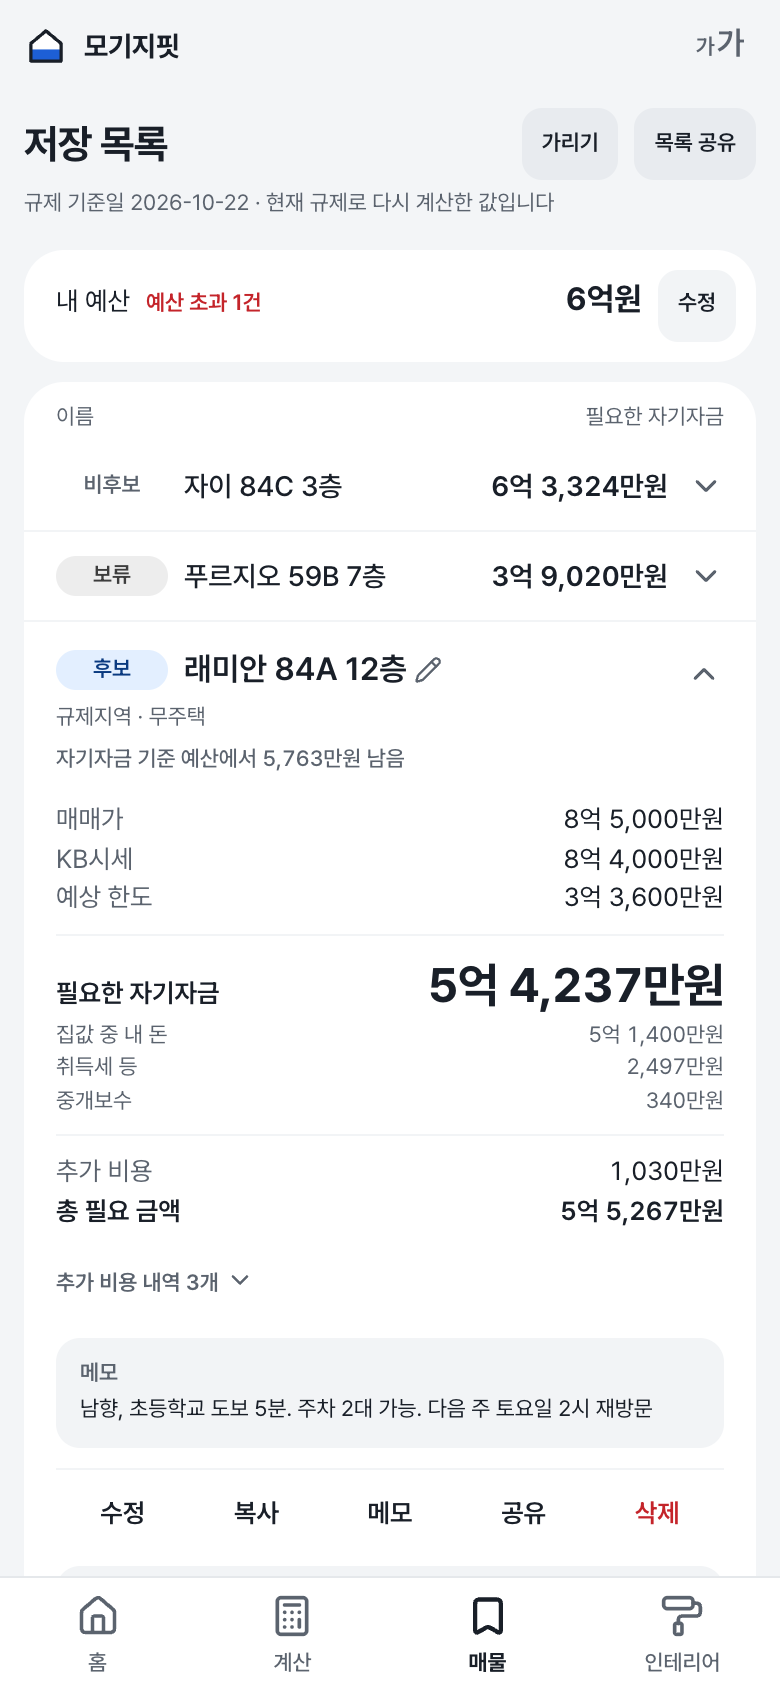
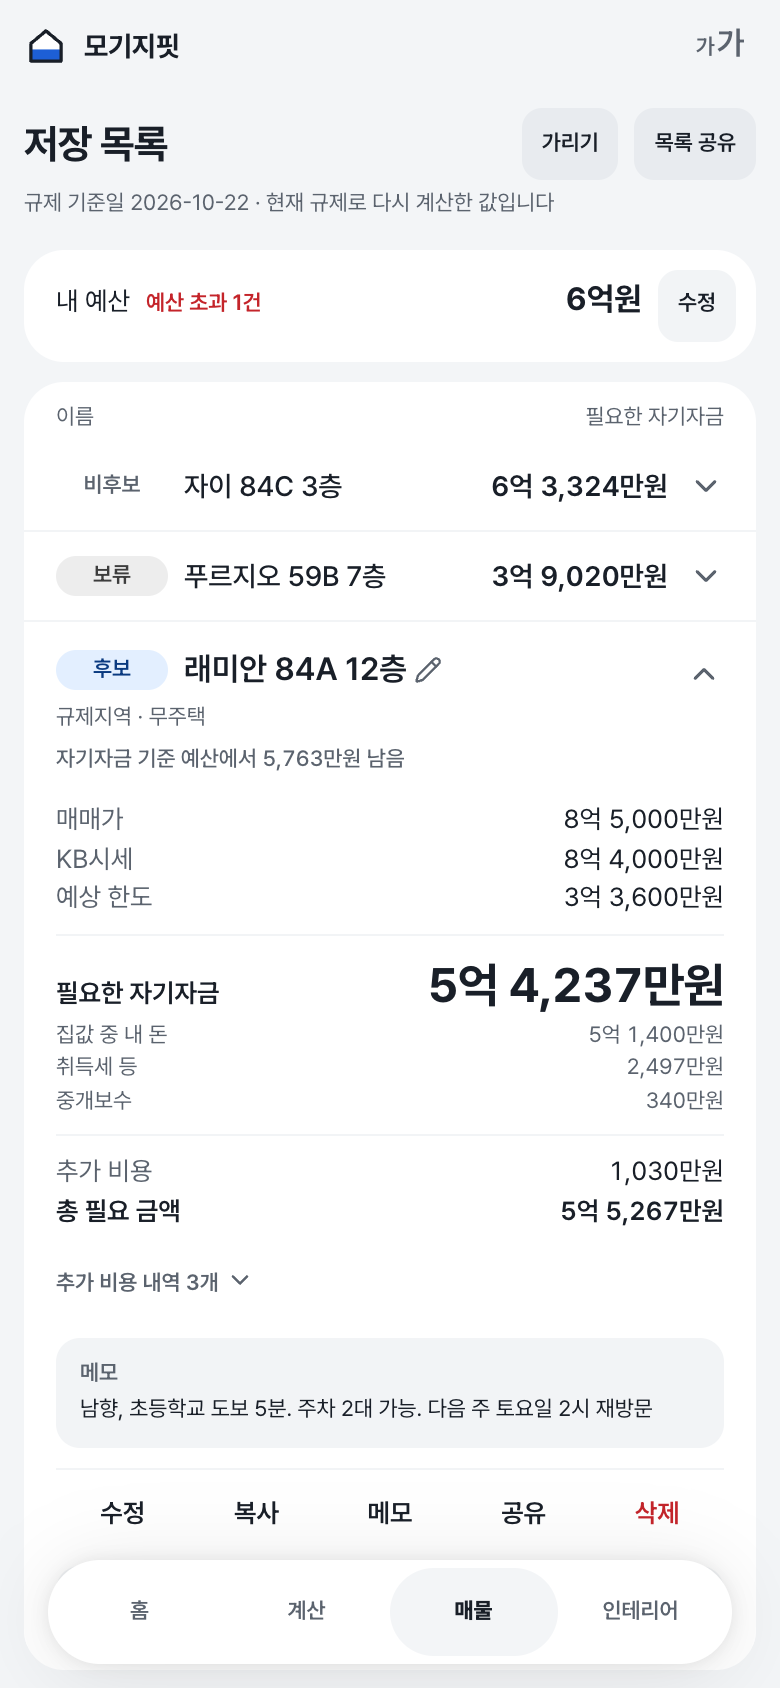
docs: README 화면 사진과 설명을 지금 화면에 맞춤
떠 있는 탭·먹색 조작·새 로고가 들어간 화면으로 01~05를 다시 찍었다. 실거래가 사진은 오류 화면이던 것을 예시 결과로 바꿨다.
예산 안 매물의 남는 금액 색(회색)과 하단 탭 설명을 고쳤다.

Changed region(s): [[0.0923, 0.9242, 0.9231, 1.0]]

diff --git a/README.md b/README.md
@@ -15,18 +15,18 @@
 <table>
   <tr>
     <td align="center"><img src="docs/screenshots/01-home.png" width="240" alt="홈: 대출 계산·매물 모으기·인테리어 요약과 카카오 로그인" /><br />홈</td>
-    <td align="center"><img src="docs/screenshots/02-calculator.png" width="240" alt="계산 결과: 예상 한도, 취득세·중개보수, 필요한 자기자금, 추가 비용과 총 필요 금액" /><br />대출 계산 결과</td>
+    <td align="center"><img src="docs/screenshots/02-calculator.png" width="240" alt="계산 결과: 기준 금액·적용 LTV·한도 상한, 예상 한도, 취득세·중개보수, 필요한 자기자금과 아래 요약 줄" /><br />대출 계산 결과</td>
     <td align="center"><img src="docs/screenshots/03-listings.png" width="240" alt="매물 모으기: 내 예산과 비교한 저장 목록, 펼친 매물 카드의 자기자금 내역과 메모" /><br />매물 모으기</td>
   </tr>
   <tr>
     <td align="center"><img src="docs/screenshots/04-trades.png" width="240" alt="실거래가 시트: 서울 강남구 래미안 검색 결과" /><br />실거래가</td>
-    <td align="center"><img src="docs/screenshots/05-interior.png" width="240" alt="인테리어: 남은 예산·지출 예정·지출 완료 요약과 공정별 업체 견적 줄, 일정, 확정·완료 체크" /><br />인테리어</td>
+    <td align="center"><img src="docs/screenshots/05-interior.png" width="240" alt="인테리어: 남은 예산·지출 예정·지출 완료 요약, 목록·표 전환, 공정별 업체 견적 줄과 일정, 확정·완료 체크, 하단 탭 옆 줄 추가 버튼" /><br />인테리어</td>
   </tr>
 </table>
 
 <p align="center"><img src="docs/screenshots/06-interior-print.png" width="720" alt="인테리어 견적 표 인쇄·PDF 첫 페이지: 기준일 요약과 구분·업체·세부내용·견적·확정·완료·비고 표" /><br />인테리어 견적 표(인쇄·PDF 첫 페이지)</p>
 
-화면의 매물 이름, 업체, 금액은 예시입니다.
+화면의 매물 이름, 업체, 금액, 실거래가는 예시입니다.
 
 ## 주요 기능
 
@@ -48,7 +48,7 @@
 
 - **저장 목록**: 계산한 매물을 저장하면 한 줄씩 보이고, 줄을 누르면 상세 카드가 펼쳐집니다. 줄을 꾹 눌러 끌어 순서를 직접 정합니다. 저장된 매물은 현재 규제로 다시 계산해 보여 줍니다.
 - **상태·이름·메모**: 매물마다 후보·보류·비후보를 정하고, 카드 제목을 눌러 이름을 바꾸고, 메모(5,000자)를 남깁니다.
-- **내 예산**: 예산을 넘는 매물에는 [초과]와 넘는 금액을 빨간색으로, 예산 안인 매물에는 남는 금액을 파란색으로 표시합니다.
+- **내 예산**: 예산을 넘는 매물에는 [초과]와 넘는 금액을 빨간색으로, 예산 안인 매물에는 남는 금액을 회색으로 표시합니다.
 - **공유 링크**: 목록이나 매물 하나를 링크로 보내면 받은 사람이 값만 복사해 자기 목록에 추가합니다.
 - **인테리어 계획으로 이어 가기**: 매물 카드의 [인테리어 계획]으로 그 집의 인테리어 계획을 만듭니다.
 
@@ -66,6 +66,7 @@
 
 ### 공통
 
+- **하단 탭**: 화면 아래에 떠 있는 탭으로 홈·계산·매물·인테리어를 오갑니다. 인테리어 목록에서는 줄 추가 [+]가 탭 옆에 붙습니다.
 - **카카오 로그인**: 로그인하면 저장 목록·예산·순서·인테리어 계획이 계정에 저장돼 어느 기기에서든 같습니다. 처음 로그인할 때 기기에 있던 데이터를 계정으로 옮깁니다(기기 원본은 그대로).
 - **함께 쓰기**: 초대 링크로 두 계정이 매물 목록과 인테리어 계획을 같이 편집합니다.
 - **가리기·글자 크기**: 저장 목록에서 [가리기]를 켜면 금액과 메모를 `•••`로 가립니다. 상단의 [가가]로 글자 크기(크게·기본·더 작게)를 고릅니다.

diff --git a/.cony/board.md b/.cony/board.md
@@ -1,6 +1,6 @@
 # 업체 미정 · 우리 집 줄 끌어 옮기기(2단계 배포)
 
-> 상태: 진행 중 · 마지막 업데이트: 2026-11-05 12:12
+> 상태: 진행 중 · 마지막 업데이트: 2026-11-05 12:28
 
 ## 태스크
 
@@ -17,7 +17,9 @@
 - "업체 미정 n건" 요약·미정 줄만 모아 보기.
 - 옛 탭 손상 판정 방지용 번들 버전 확인 장치(ADR-033 뒤집을 조건, 생기면 다음 형식 완화를 한 번 배포로).
 - 손상 화면 [계획 초기화]를 "원문 내려받기 뒤에만 활성"으로.
-- 떠 있는 [+]가 스크롤 중 줄의 확정 체크 위에 겹칠 수 있음(끝 여백은 있음).
+- ~~떠 있는 [+]가 스크롤 중 줄의 확정 체크 위에 겹칠 수 있음~~ → PR #67(30db67b, 2026-11-05)에서 [+]를 탭 알약 옆으로 옮겨 해결.
+- iOS 26 모양 남은 후보(2026-11-05 제안, 사용자가 1·3번만 고름): 아래 시트를 화면 가장자리에서 띄우기(끝까지 올리면 붙음), 머리 줄 작은 버튼(초기화·관리·카카오 로그인)을 알약으로. 유리 효과(backdrop blur)는 대비·성능 때문에 비추천.
+- ~~README 화면 사진이 이전 탭 모양 그대로~~ → 2026-11-05 README 갱신에서 01~05 다시 찍음.
 - 가끔 실패하는 서버 테스트 `handleHousehold.d1` "동시 나가기"(PR #47 CI에서도 1회, 재실행 통과).
 - 홈에 "이전 완료" 안내가 안 보이는 문제.
 - 묶음 키보드 놓기 뒤 포커스가 body로 빠짐(줄 끌기도 같은지 미확인).
@@ -25,7 +27,7 @@
 
 ## 지금 하는 일
 
-[+]를 탭 알약 옆으로, 목록·표 전환을 알약으로
+README 화면 사진·글 갱신
 
 ## 최근 결정
 

diff --git a/.cony/log.md b/.cony/log.md
@@ -832,3 +832,11 @@
 - 2026-11-05 AI(리드): [+]는 알약과 같은 높이(52px)·같은 아랫선에 서고, 알약이 그만큼 줄어든다. 화면이 버튼에 `data-tab-accessory`를 달면 TabNav가 `body:has()`로 자리를 비운다(인쇄 영역과 같은 방식). 표 보기에는 [+]가 없어 알약이 원래 폭. 목록 끝 [+] 여백은 지움(탭 줄 여백이 가짐). 백로그 "[+]가 확정 체크 위에 겹침"도 함께 해결.
 - 2026-11-05 AI(리드): 세그먼트 홈·칸 모서리를 알약으로.
 - 못 본 것: 실기기.
+- 2026-11-05 요청: 화면 취향 확인 → "이대로 좋아". [+] 탭 알약 옆, 목록·표 알약 그대로 확정.
+
+## 2026-11-05 README 갱신
+
+- 2026-11-05 요청: "readme (screenshot포함) 업데이트".
+- 2026-11-05 AI(리드): 화면 사진 01~05를 로컬 빌드 + 예시 데이터로 다시 찍음. 04 실거래가는 예전 사진이 "불러오지 못했습니다" 오류 화면이라 예시 응답(/api/apt-trades 가로채기)으로 결과 목록을 찍음. 06 인쇄는 그대로.
+- 2026-11-05 놓침: README "예산 안인 매물은 남는 금액을 파란색으로"가 PR #65(회색으로 바꿈) 뒤로 틀려 있었음 → 회색으로 고침. 하단 탭 설명 한 줄 추가.
+- 열린 질문(사용자 답 전): 홈 맨 아래 "N명이 함께 쓰는 중 · [나가기]" 줄 위치. 제안 = 기능 면 아래 따로 한 줄 흰 면("함께 쓰기 · 2명 사용 중 ›") + [나가기]는 함께 쓰기 시트 안으로(확인 한 번). 대안 = 머리 줄 알약 / 기능 면 4번째 줄.

diff --git a/.cony/specs/interior-vendor-tbd-line-order.md b/.cony/specs/interior-vendor-tbd-line-order.md
@@ -347,7 +347,9 @@
 - "업체 미정 n건" 요약·미정 줄만 모아 보기.
 - 옛 탭 손상 판정 방지용 번들 버전 확인 장치(ADR-033 뒤집을 조건, 생기면 다음 형식 완화를 한 번 배포로).
 - 손상 화면 [계획 초기화]를 "원문 내려받기 뒤에만 활성"으로.
-- 떠 있는 [+]가 스크롤 중 줄의 확정 체크 위에 겹칠 수 있음(끝 여백은 있음).
+- ~~떠 있는 [+]가 스크롤 중 줄의 확정 체크 위에 겹칠 수 있음~~ → PR #67(30db67b, 2026-11-05)에서 [+]를 탭 알약 옆으로 옮겨 해결.
+- iOS 26 모양 남은 후보(2026-11-05 제안, 사용자가 1·3번만 고름): 아래 시트를 화면 가장자리에서 띄우기(끝까지 올리면 붙음), 머리 줄 작은 버튼(초기화·관리·카카오 로그인)을 알약으로. 유리 효과(backdrop blur)는 대비·성능 때문에 비추천.
+- ~~README 화면 사진이 이전 탭 모양 그대로~~ → 2026-11-05 README 갱신에서 01~05 다시 찍음.
 - 가끔 실패하는 서버 테스트 `handleHousehold.d1` "동시 나가기"(PR #47 CI에서도 1회, 재실행 통과).
 - 홈에 "이전 완료" 안내가 안 보이는 문제.
 - 묶음 키보드 놓기 뒤 포커스가 body로 빠짐(줄 끌기도 같은지 미확인).
